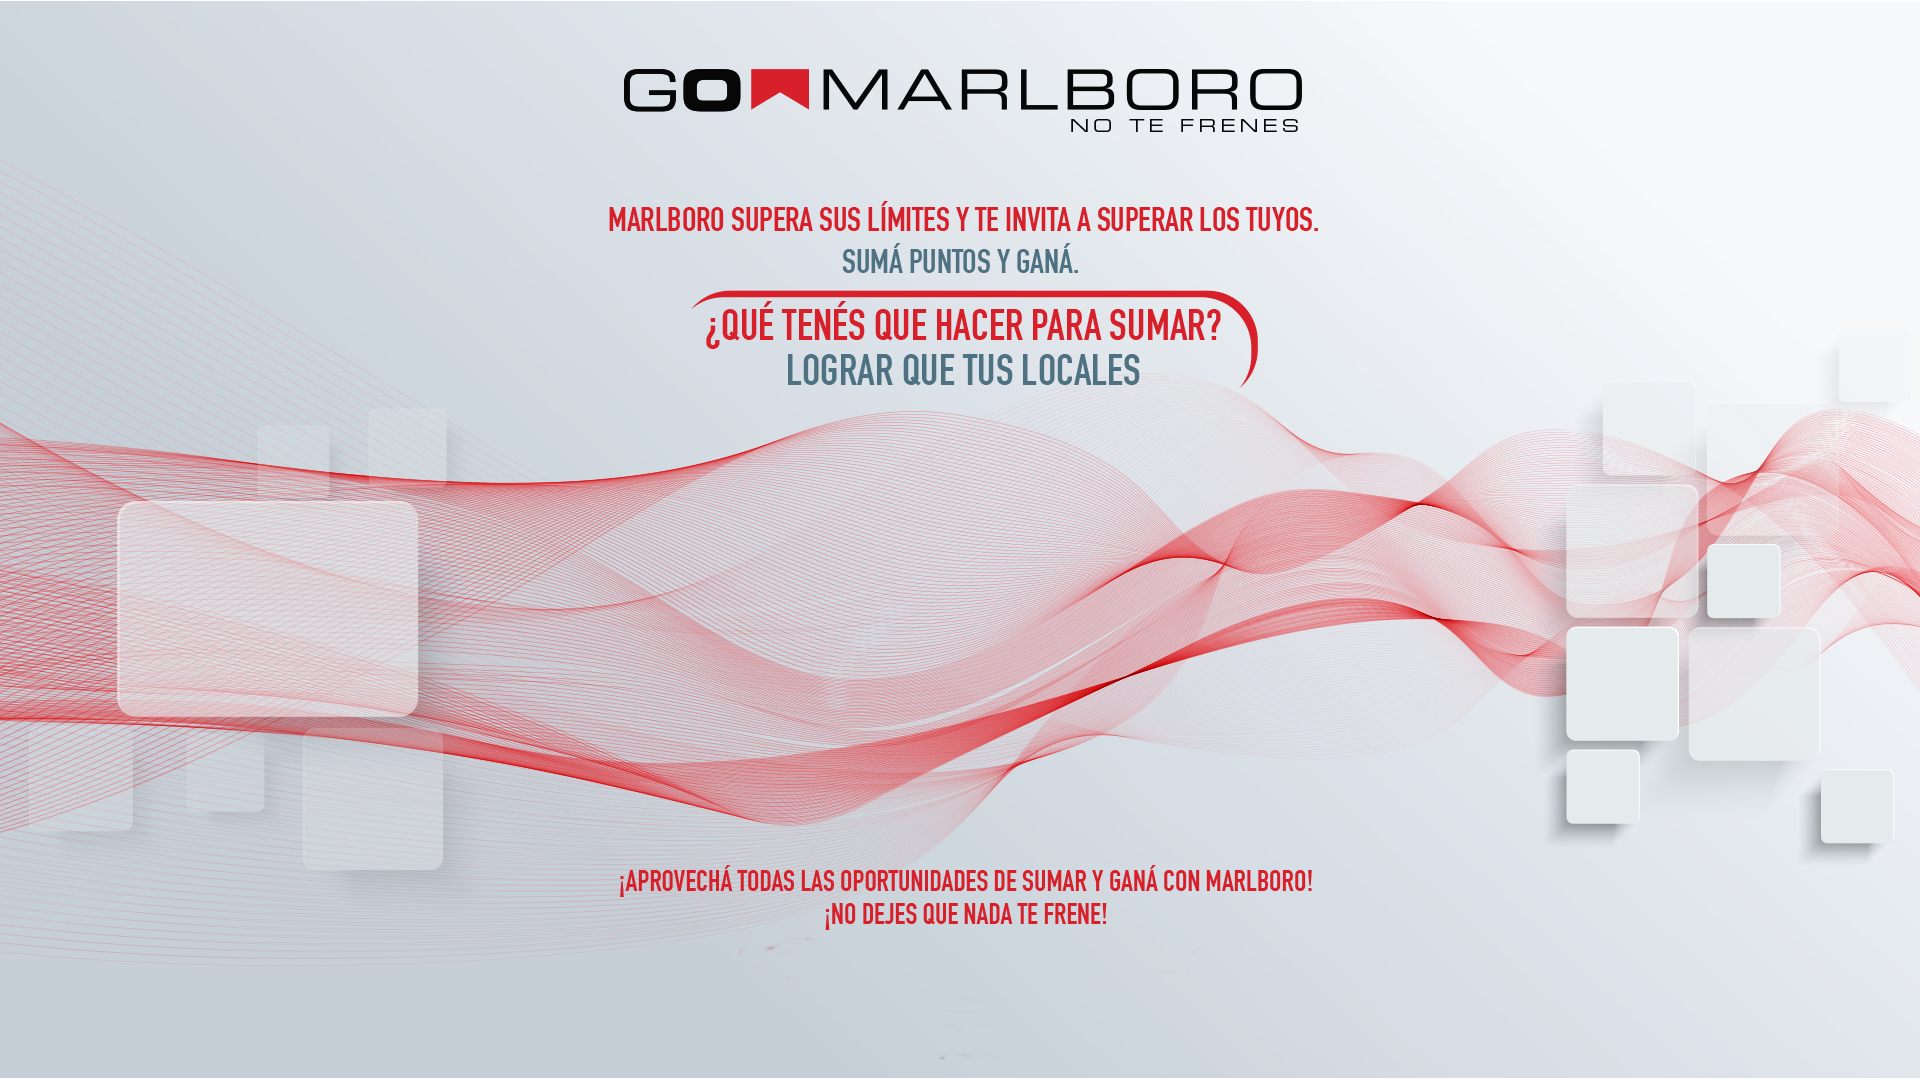
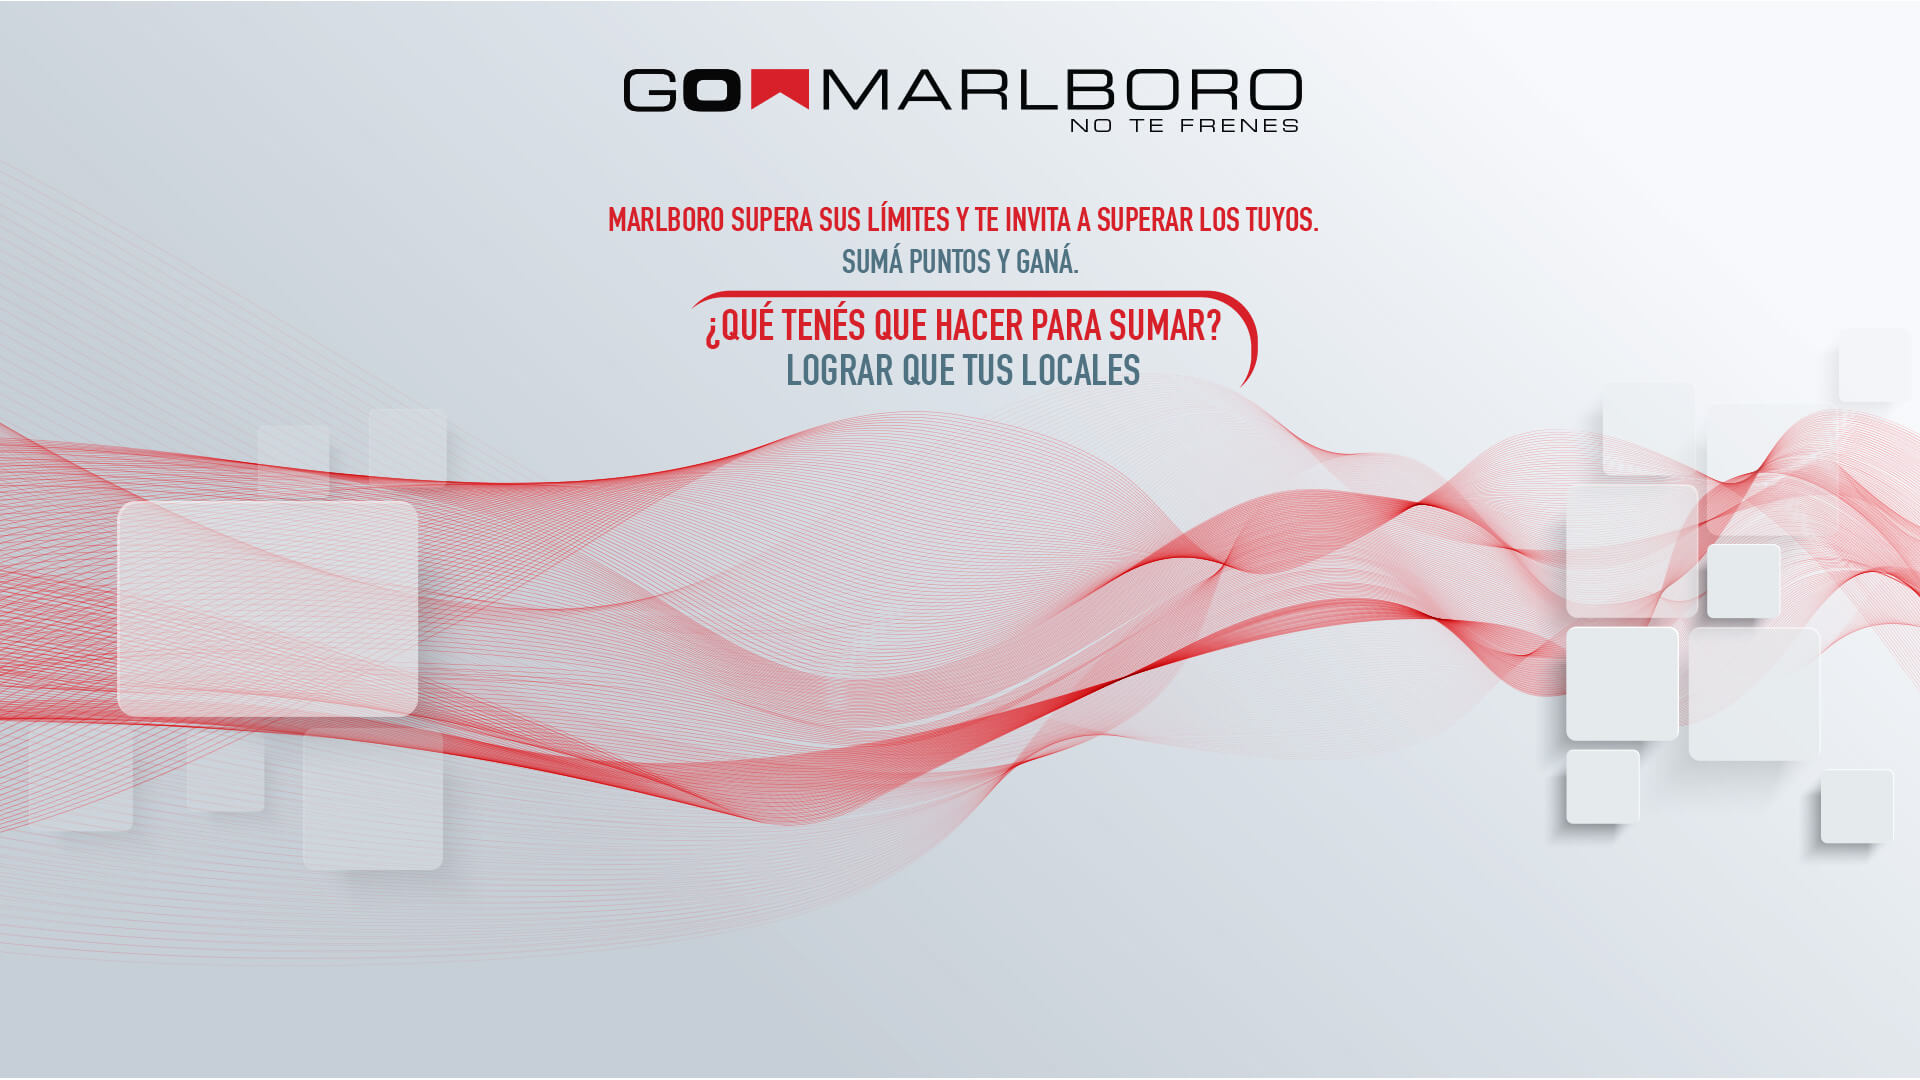
grafica

diff --git a/template/css/style.css b/template/css/style.css
@@ -662,9 +662,9 @@ min-height: 1440px;
 
 @media (min-width: 769px){
 .bottom-container{
-	width: 27%;
+	/*width: 27%;*/
 	margin: 0 auto;
-	margin-top: 17%;
+	margin-top: 12%;
 }
 }
 
@@ -683,7 +683,7 @@ min-height: 1440px;
 
 @media (min-width: 1800px){
 .bottom-container{
-	margin-top: 15%;
+	margin-top: 6%;
 }
 }
 

diff --git a/models/template.class.php b/models/template.class.php
@@ -286,13 +286,15 @@ class Template
 
 
       <div class="container hidden-mobile">
-        <?php if($site != "home" and $site != "ranking-locales" ):?>  
-        <div class="bottom-text bold">
-          <p>¡Aprovechá todas las oportunidades de sumar y ganá con marlboro!</p>
-          <p>¡No dejes que nada te frene!</p>
-        </div>
-        <?php endif;?>
+        
         <div class="bottom-container bold">
+          <div class="bottom-text bold">
+            <p>¡Aprovechá todas las oportunidades de sumar y ganá con marlboro!</p>
+            <p>¡No dejes que nada te frene!</p>
+          </div>        
+          <div class="bottom-text bold" style="padding-bottom: 10px; padding-top: 10px">
+            <p>Etapa 1</p>
+          </div>  
           <a href="<?php echo HOME?>ranking.html" class="btn btn-grey btn-red inline">
             <span class="grey">tu </span><span>performance</span>
           </a>
